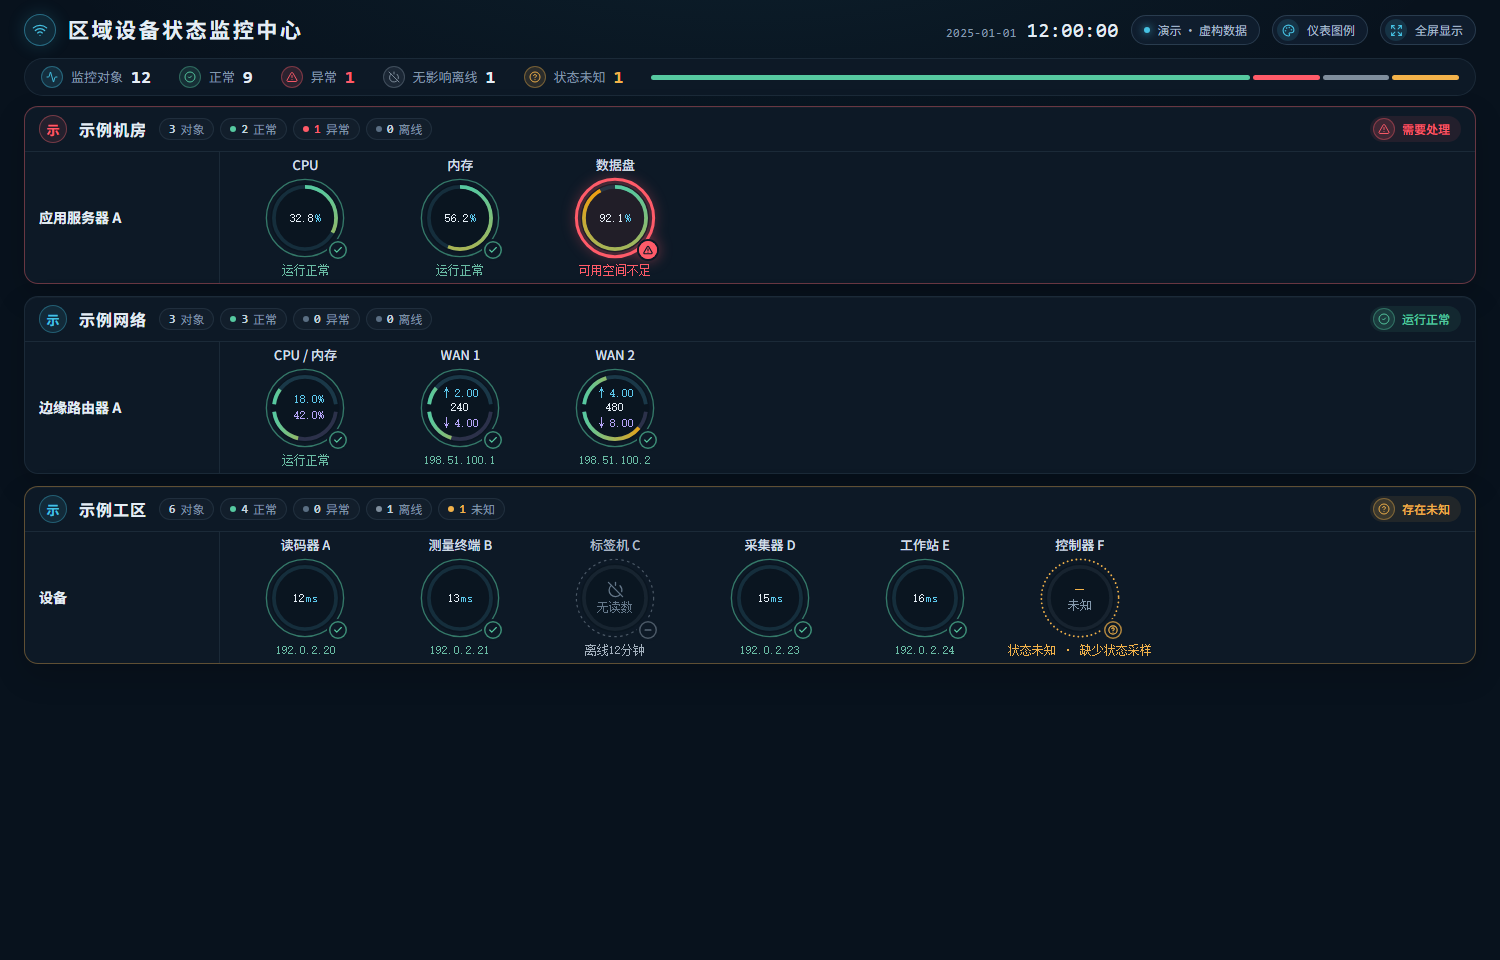
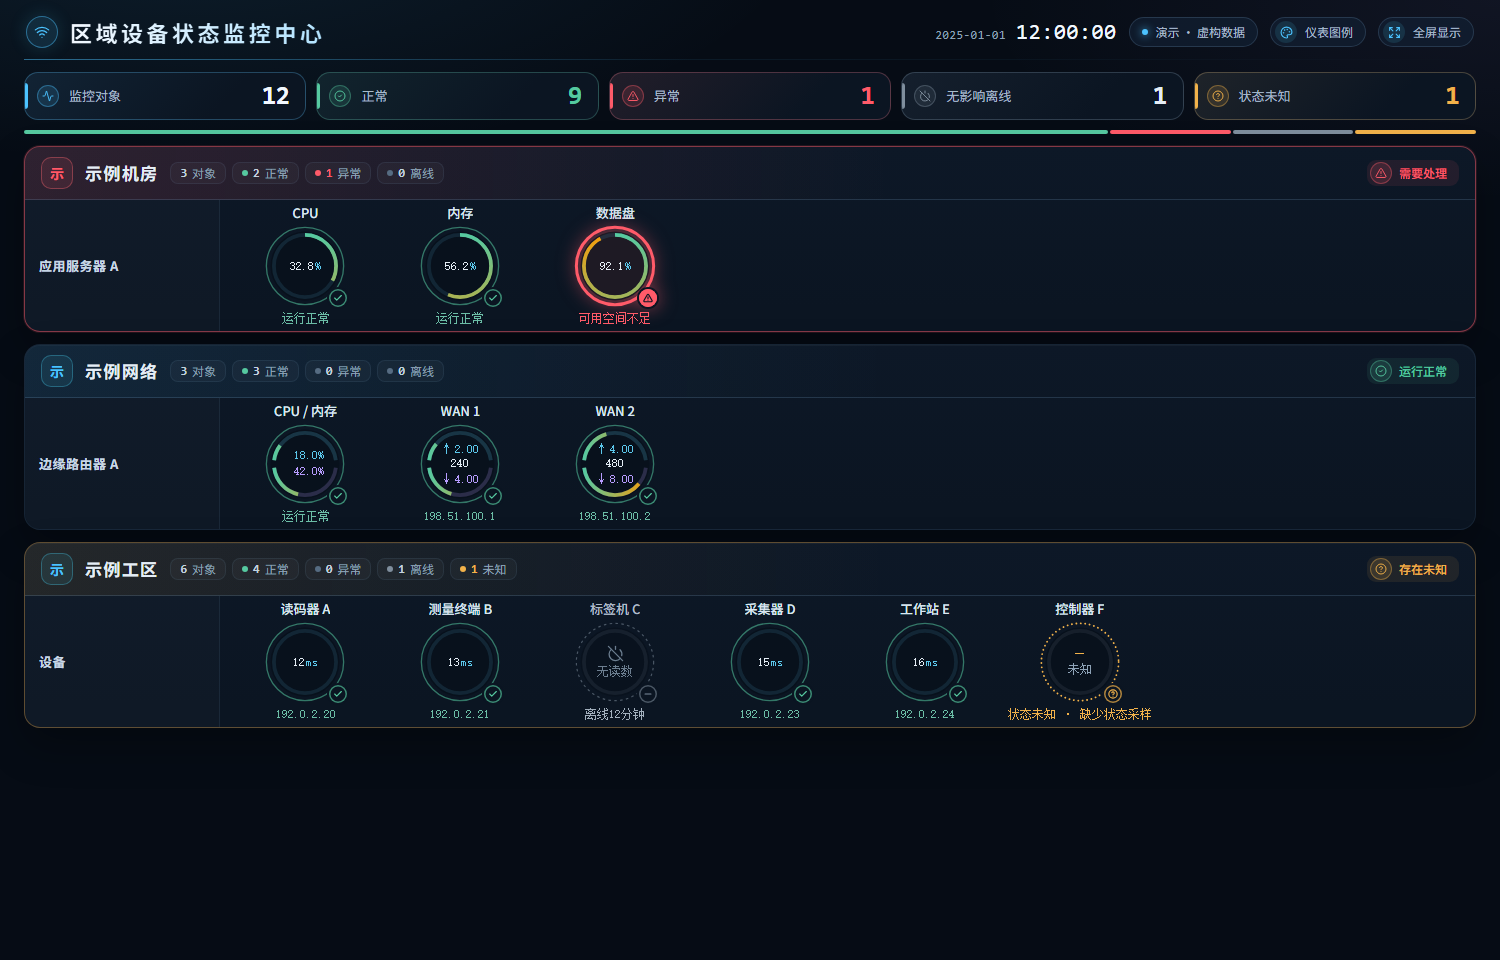
Respect saved palettes in the dark dashboard theme

diff --git a/app/monitor-theme.css b/app/monitor-theme.css
@@ -10,20 +10,17 @@
   --line-strong: rgba(130, 176, 214, .2);
   --muted: #8da2b6;
   --faint: #566c82;
-  --brand: #4cc3ff;
-  --load: #4cc3ff;
-  --load-down: #b79cff;
-  --normal: #2fd6a1;
-  --error: #ff5468;
-  --offline: #7d8b9b;
-  --unknown: #ffb84a;
   --radius: 16px;
   gap: 12px;
   background:
-    radial-gradient(ellipse 60% 36% at 12% -8%, rgba(76, 195, 255, .1), transparent 70%),
-    radial-gradient(ellipse 50% 30% at 100% 0%, rgba(183, 156, 255, .06), transparent 70%),
+    radial-gradient(ellipse 60% 36% at 12% -8%, color-mix(in oklab, var(--brand) 10%, transparent), transparent 70%),
+    radial-gradient(ellipse 50% 30% at 100% 0%, color-mix(in oklab, var(--load-down) 6%, transparent), transparent 70%),
     var(--background);
 }
+
+.monitor-shell[data-palette='harbor'] { --brand: #4cc3ff; --load-down: #b79cff; }
+.monitor-shell[data-palette='titanium'] { --load-down: #ffad67; }
+.monitor-shell[data-palette='jade'] { --brand: #42d6c2; --load-down: #7fcf9e; }
 
 /* 顶栏：品牌与操作区之间用一条渐变细线收口 */
 .monitor-shell .topbar {
@@ -31,11 +28,11 @@
 }
 .monitor-shell .topbar::after {
   content: ''; position: absolute; left: 0; right: 0; bottom: 0; height: 1px;
-  background: linear-gradient(90deg, rgba(76, 195, 255, .5), rgba(76, 195, 255, .08) 45%, transparent);
+  background: linear-gradient(90deg, color-mix(in oklab, var(--brand) 50%, transparent), color-mix(in oklab, var(--brand) 8%, transparent) 45%, transparent);
 }
 .monitor-shell h1 {
   font-size: 22px; letter-spacing: .16em;
-  background: linear-gradient(90deg, #f2f8ff, #9fd8ff);
+  background: linear-gradient(90deg, #f2f8ff, color-mix(in oklab, var(--brand) 48%, white));
   -webkit-background-clip: text; background-clip: text; color: transparent;
 }
 .monitor-shell .clock strong { font-size: 22px; color: #f2f8ff; }
@@ -75,19 +72,19 @@
   box-shadow: 0 1px 0 rgba(255, 255, 255, .04) inset, 0 18px 40px rgba(0, 0, 0, .28);
 }
 .monitor-shell .region-panel.has-alert {
-  border-color: rgba(255, 84, 104, .5);
-  box-shadow: 0 0 0 1px rgba(255, 84, 104, .12), 0 18px 40px rgba(0, 0, 0, .28);
+  border-color: color-mix(in oklab, var(--error) 50%, transparent);
+  box-shadow: 0 0 0 1px color-mix(in oklab, var(--error) 12%, transparent), 0 18px 40px rgba(0, 0, 0, .28);
 }
 .monitor-shell .region-header {
   padding: 10px 16px; gap: 12px;
-  background: linear-gradient(90deg, rgba(76, 195, 255, .09), transparent 60%);
+  background: linear-gradient(90deg, color-mix(in oklab, var(--brand) 9%, transparent), transparent 60%);
   border-bottom-color: var(--line-strong);
 }
 .monitor-shell .region-panel.has-alert .region-header {
-  background: linear-gradient(90deg, rgba(255, 84, 104, .14), transparent 60%);
+  background: linear-gradient(90deg, color-mix(in oklab, var(--error) 14%, transparent), transparent 60%);
 }
 .monitor-shell .region-panel.has-unknown:not(.has-alert) .region-header {
-  background: linear-gradient(90deg, rgba(255, 184, 74, .1), transparent 60%);
+  background: linear-gradient(90deg, color-mix(in oklab, var(--unknown) 10%, transparent), transparent 60%);
 }
 .monitor-shell .region-badge {
   width: 32px; height: 32px; border-radius: 10px; font-size: 14px;
@@ -102,7 +99,7 @@
   background: rgba(255, 255, 255, .02); color: #c9d8e6;
   font-size: 13px; font-weight: 600; letter-spacing: .04em;
 }
-.monitor-shell .device-grid { gap: 12px 6px; }
+.monitor-shell .device-grid { gap: 12px 4px; }
 
 /* 设备单元：悬停与可点击反馈 */
 .monitor-shell .device-history-trigger { border-radius: 12px; transition: background .2s; }
